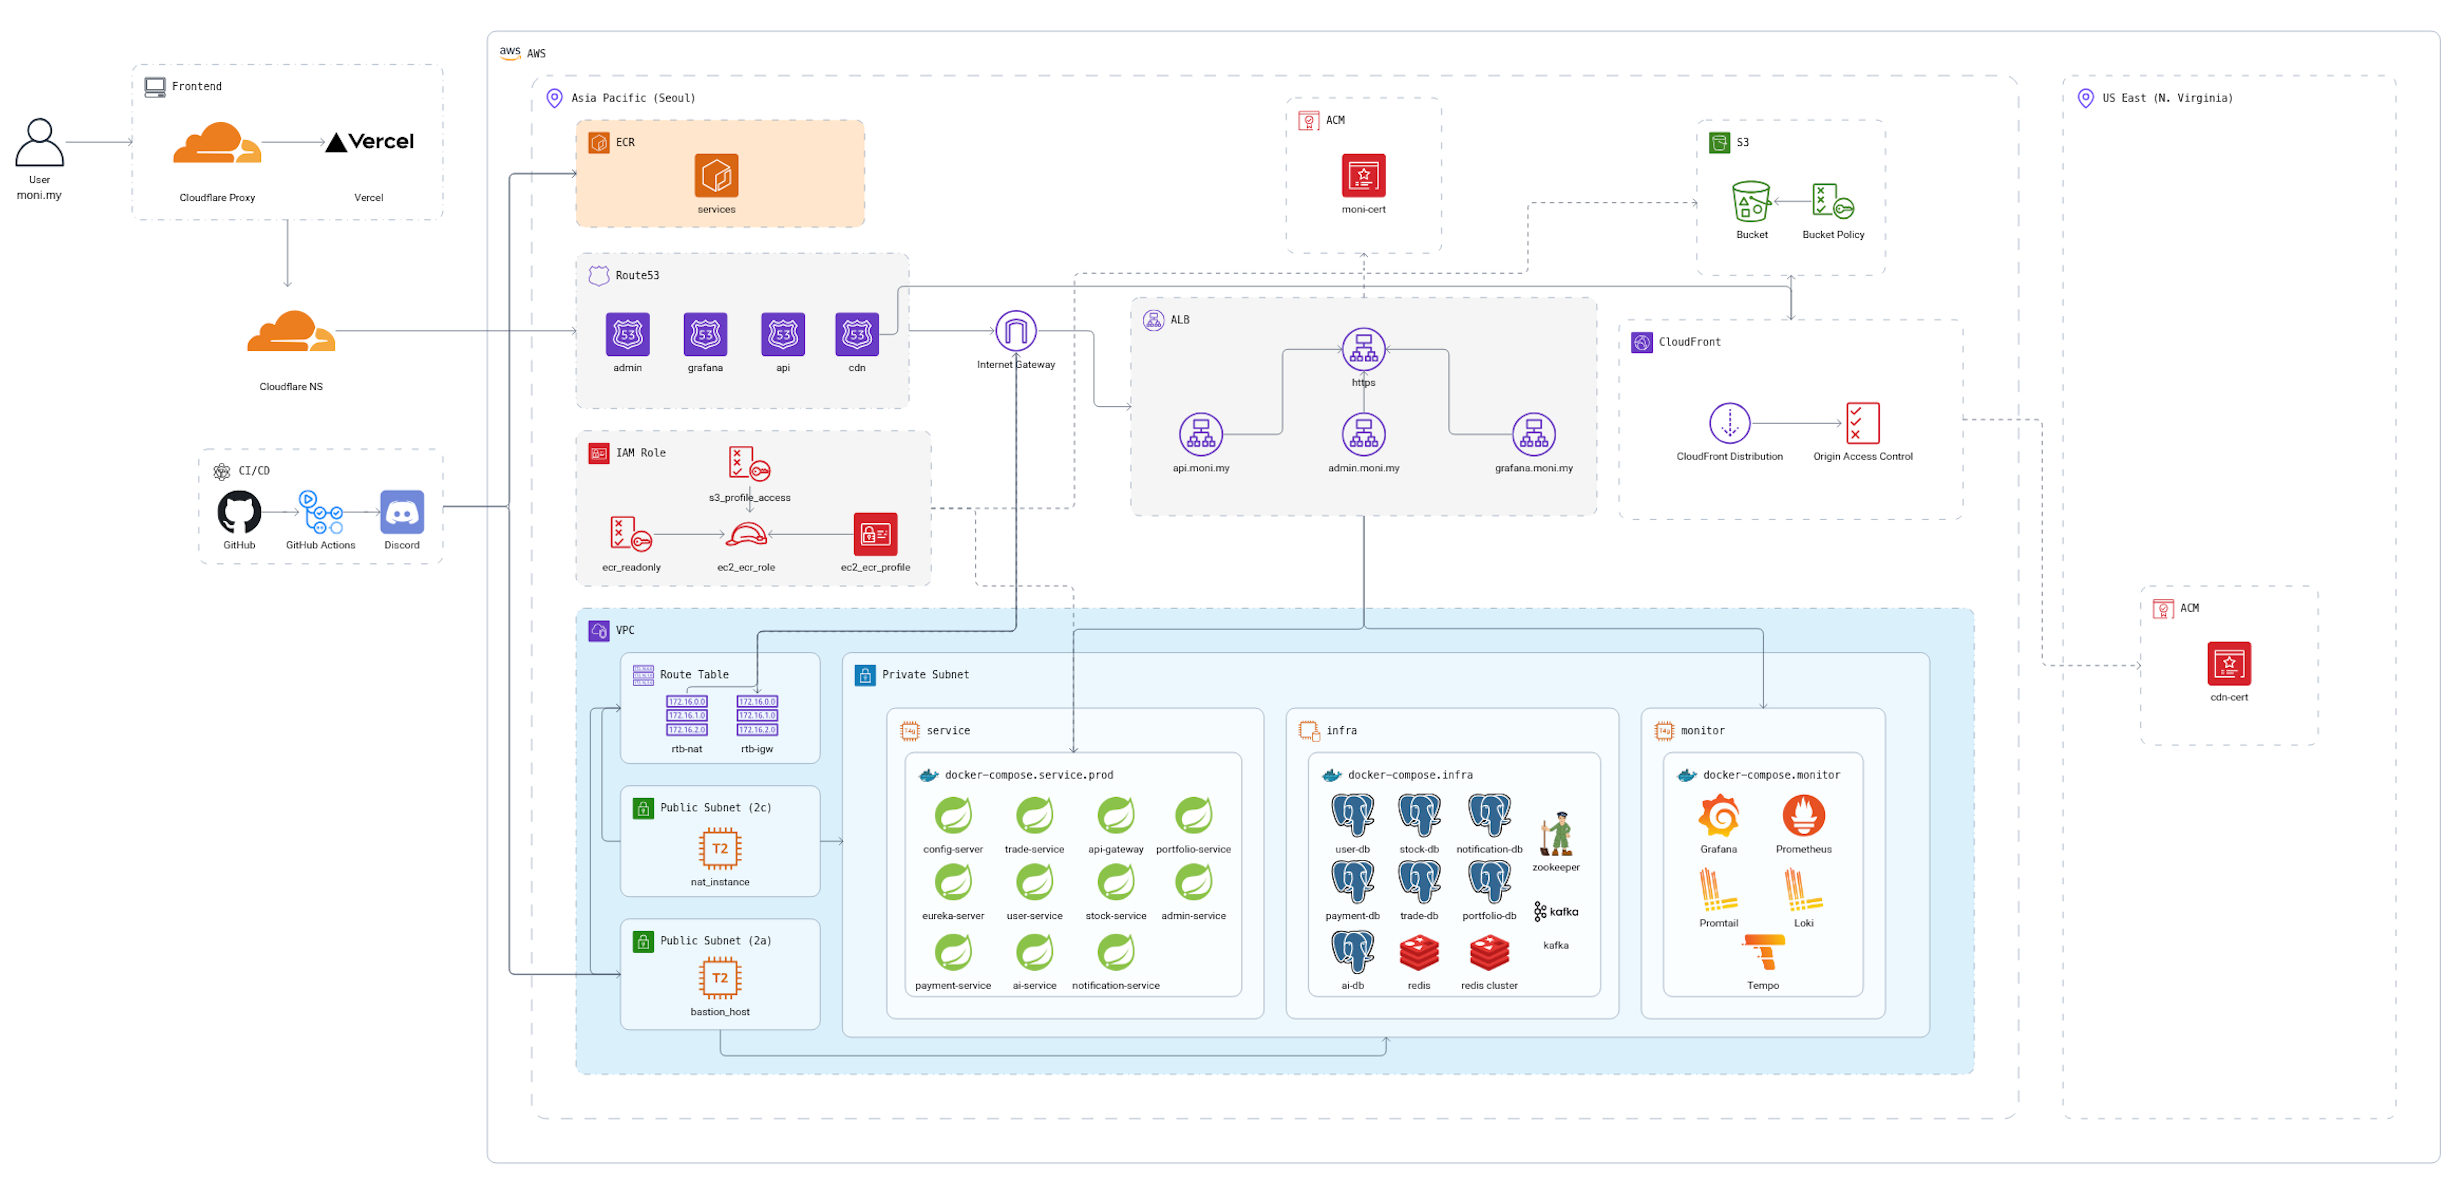
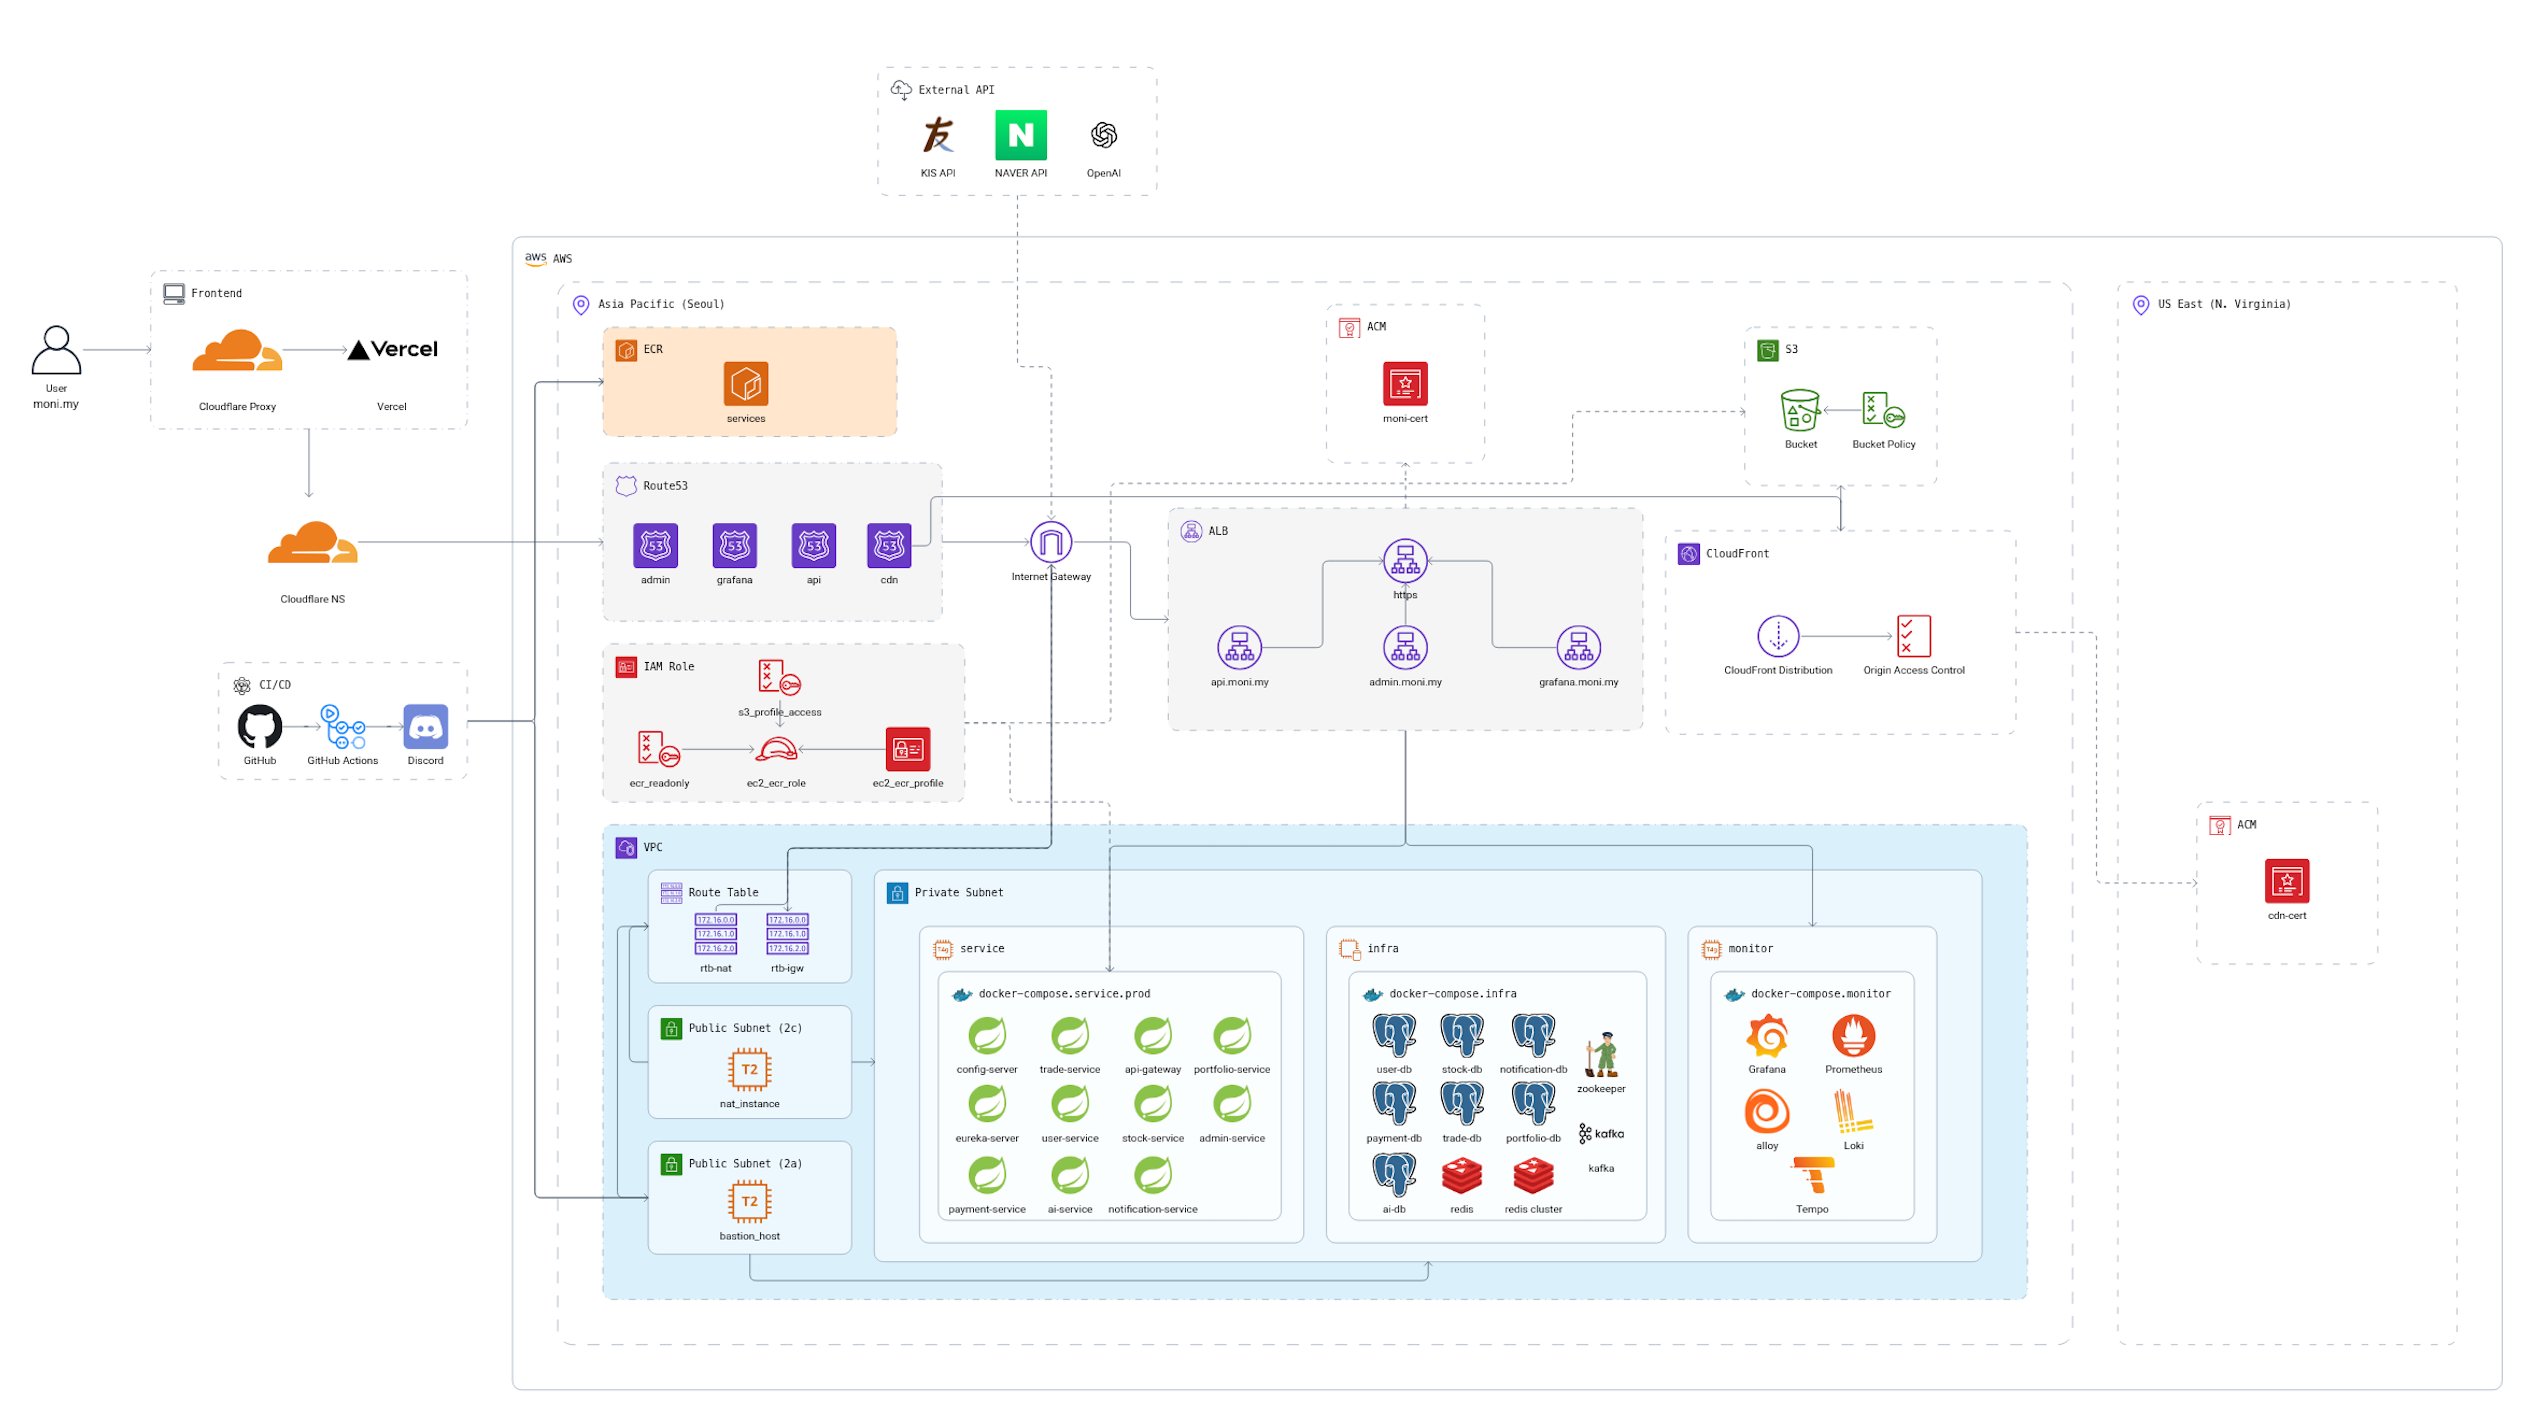
docs: swagger JSON 문서 추가

diff --git a/README.md b/README.md
@@ -1,6 +1,7 @@
 <!-- 상단 배너 이미지 교체 예정 -->
 <div align="center">
-  <img src="docs/images/banner.gif" alt="moni banner" width="1080"/>
+  <img src="docs/images/banner1.png" alt="moni banner-1" width="1920"/>
+  <img src="docs/images/banner2.png" alt="moni banner-2" width="1920"/>
 
   <h1>moni · 모니</h1>
 
@@ -243,35 +244,9 @@ FeignClient 호출에는 timeout을 명시하고 Resilience4j Circuit Breaker + 
 
 추후 작성 예정
 
-## ERD 명세서
+## ERD
 
-<details>
-<summary>ERD 보기</summary>
-
-<!-- ERD 이미지 교체 예정 -->
-
-### User
-![User ERD](docs/images/erd-user.png)
-
-### Trade
-![Trade ERD](docs/images/erd-trade.png)
-
-### Stock
-![Stock ERD](docs/images/erd-stock.png)
-
-### Portfolio
-![Portfolio ERD](docs/images/erd-portfolio.png)
-
-### Notification
-![Notification ERD](docs/images/erd-notification.png)
-
-### Payment
-![Payment ERD](docs/images/erd-payment.png)
-
-### AI
-![AI ERD](docs/images/erd-ai.png)
-
-</details>
+![ERD](docs/images/erd-diagram.png)
 
 ---
 
